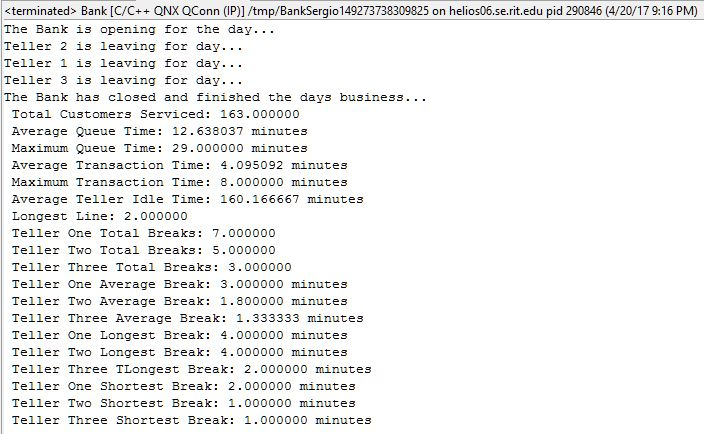
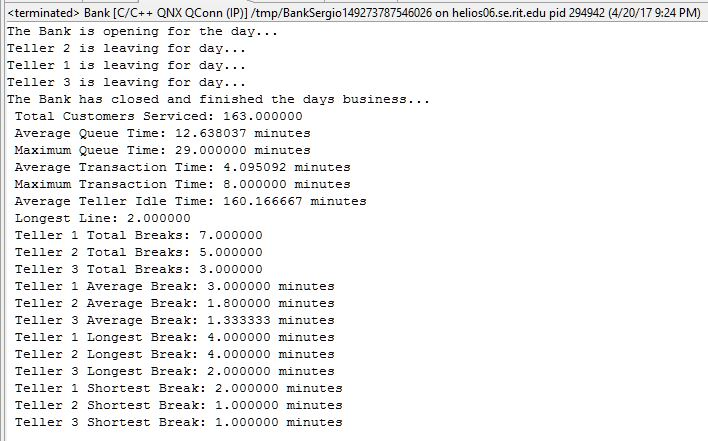
Fixed spelling, made metrics more dynamic, and updated the output image.

Changed region(s): [[0.0, 0.0, 1.0, 1.0]]

diff --git a/metrics.c b/metrics.c
@@ -32,22 +32,18 @@ void calculate_metrics(){
 	printf("Longest Line: %f\r\n ", (float)Bank.maxNumInQueue );
 
 	//Total Breaks Per
-	printf("Teller One Total Breaks: %f\r\n ", (float)tellers[0]->numBreaks );
-	printf("Teller Two Total Breaks: %f\r\n ", (float)tellers[1]->numBreaks );
-	printf("Teller Three Total Breaks: %f\r\n ", (float)tellers[2]->numBreaks );
+	for(int i = 0; i < 3; i++)
+		printf("Teller %d Total Breaks: %f\r\n ", tellers[i]->tellerNum, (float)tellers[i]->numBreaks );
 
 	//Average break Per
-	printf("Teller One Average Break: %f minutes\r\n ", ((float)(tellers[0]->totalBreak)/((float)tellers[0]->numBreaks))/2. );
-	printf("Teller Two Average Break: %f minutes\r\n ", ((float)(tellers[1]->totalBreak)/((float)tellers[1]->numBreaks))/2. );
-	printf("Teller Three Average Break: %f minutes\r\n ", ((float)(tellers[2]->totalBreak)/((float)tellers[2]->numBreaks))/2. );
+	for(int i = 0; i < 3; i++)
+		printf("Teller %d Average Break: %f minutes\r\n ", tellers[i]->tellerNum, ((float)(tellers[i]->totalBreak)/((float)tellers[i]->numBreaks))/2. );
 
 	//Longest Break Per
-	printf("Teller One Longest Break: %f minutes\r\n ", ((float)tellers[0]->maxBreak)/2. );
-	printf("Teller Two Longest Break: %f minutes\r\n ", ((float)tellers[1]->maxBreak)/2. );
-	printf("Teller Three TLongest Break: %f minutes\r\n ", ((float)tellers[2]->maxBreak)/2. );
+	for(int i = 0; i < 3; i++)
+		printf("Teller %d Longest Break: %f minutes\r\n ", tellers[i]->tellerNum, ((float)tellers[i]->maxBreak)/2. );
 
 	//Shortest Break Per
-	printf("Teller One Shortest Break: %f minutes\r\n ", ((float)tellers[0]->minBreak)/2. );
-	printf("Teller Two Shortest Break: %f minutes\r\n ", ((float)tellers[1]->minBreak)/2. );
-	printf("Teller Three Shortest Break: %f minutes\r\n ", ((float)tellers[2]->minBreak)/2. );
+	for(int i = 0; i < 3; i++)
+		printf("Teller %d Shortest Break: %f minutes\r\n ", tellers[i]->tellerNum, ((float)tellers[i]->minBreak)/2. );
 }
